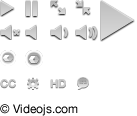
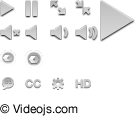
Updated track styles and make subtitles button work.

diff --git a/design/video-js.css b/design/video-js.css
@@ -52,11 +52,12 @@ body.vjs-full-window {
 }
 
 /* Text Track Styles */
-.video-js .vjs-text-track-display {
-  text-align: center; position: absolute; bottom: 4em; left: 1em; right: 1em;
-}
+/* Overall track holder for both captions and subtitles */
+.video-js .vjs-text-track-display { text-align: center; position: absolute; bottom: 4em; left: 1em; right: 1em; }
+/* Individual tracks */
 .video-js .vjs-text-track {
   display: none; color: #fff; font-size: 1.4em; text-align: center; margin-bottom: 0.1em;
+  /* Transparent black background, or fallback to all black (IE6) */
   background: rgb(0, 0, 0); background: rgba(0, 0, 0, 0.50);
 }
 .video-js .vjs-subtitles { color: #fff; }
@@ -165,6 +166,8 @@ so you can upgrade to newer versions easier. You can remove all these styles by 
   background: -o-linear-gradient(top, #333, #666);
   background: -ms-linear-gradient(top, #333, #666);
   background: linear-gradient(top, #333, #666);
+
+  border: 1px solid #000;
 }
 .vjs-default-skin .vjs-volume-level {
   position: absolute; top: 0; left: 0; height: 0.6em;
@@ -434,11 +437,13 @@ div.vjs-loading-spinner .ball7 { opacity: 0.87; position:absolute; left: 0px; to
 div.vjs-loading-spinner .ball8 { opacity: 1.00; position:absolute; left: 6px; top: 6px; width: 13px; height: 13px; background: #fff;
   border-radius: 13px; -webkit-border-radius: 13px; -moz-border-radius: 13px; border: 1px solid #ccc; }
 
-/* Captions Button
+/* Feature Buttons (Captions/Subtitles/etc.)
 -------------------------------------------------------------------------------- */
-.vjs-default-skin .vjs-captions-control { 
-  float: right; margin: 0.2em 1em 0 0; padding: 0; width: 3em; height: 2em; cursor: pointer !important;
+.vjs-default-skin .vjs-feature-button { 
+  float: right; margin: 0.2em 0.5em 0 0; padding: 0; width: 3em; height: 2em; cursor: pointer !important;
+
   border: 1px solid #111; -moz-border-radius: 0.3em; -webkit-border-radius: 0.3em; border-radius: 0.3em; 
+
   background: #4d4d4d;
   background: -moz-linear-gradient(top,  #4d4d4d 0%, #3f3f3f 50%, #333333 50%, #252525 100%);
   background: -webkit-gradient(linear, left top, left bottom, color-stop(0%,#4d4d4d), color-stop(50%,#3f3f3f), color-stop(50%,#333333), color-stop(100%,#252525));
@@ -447,17 +452,16 @@ div.vjs-loading-spinner .ball8 { opacity: 1.00; position:absolute; left: 6px; to
   background: -ms-linear-gradient(top,  #4d4d4d 0%,#3f3f3f 50%,#333333 50%,#252525 100%);
   background: linear-gradient(top,  #4d4d4d 0%,#3f3f3f 50%,#333333 50%,#252525 100%);
 }
-/* Play Icon */
-.vjs-default-skin .vjs-captions-control div { background: url('video-js.png') 0px -75px; width: 16px; height: 16px; margin: 0.2em auto 0; padding: 0; }
+/* Button Icon */
+.vjs-default-skin .vjs-feature-button div { background: url('video-js.png') 0px -75px no-repeat; width: 16px; height: 16px; margin: 0.2em auto 0; padding: 0; }
 
-.vjs-default-skin .vjs-captions-control ul { 
-  display: none; /* Start hidden. Hover will show. */
-}
-.vjs-default-skin .vjs-captions-control:hover ul {
+/* Button Pop-up Menu */
+.vjs-default-skin .vjs-feature-button ul { display: none; /* Start hidden. Hover will show. */ }
+.vjs-default-skin .vjs-feature-button:hover ul {
   display: block;
   opacity: 0.8;
   list-style: none; padding: 0; margin: 0;
-  position: absolute; width: 10em; height: 10em; bottom: 2em; 
+  position: absolute; width: 10em; bottom: 2em; 
   left: -3.5em; /* Width of menu - width of button / 2 */
   background-color: #111;
   border: 2px solid #333;
@@ -465,5 +469,8 @@ div.vjs-loading-spinner .ball8 { opacity: 1.00; position:absolute; left: 6px; to
   -webkit-box-shadow: 0 2px 4px 0 #000; -moz-box-shadow: 0 2px 4px 0 #000; box-shadow: 0 2px 4px 0 #000;
   overflow: auto;
 }
-.vjs-default-skin .vjs-captions-control ul li { list-style: none; margin: 0 0 2px 0; padding: 0; line-height: 1.5em; font-size: 1.4em; font-family: "Helvetica Neue", Helvetica, Arial, sans-serif; background-color: #333; }
-.vjs-default-skin .vjs-captions-control ul li:hover { background-color: #ccc; color: #333; }
+.vjs-default-skin .vjs-feature-button ul li { list-style: none; margin: 0 0 2px 0; padding: 0; line-height: 1.5em; font-size: 1.4em; font-family: "Helvetica Neue", Helvetica, Arial, sans-serif; background-color: #333; }
+.vjs-default-skin .vjs-feature-button ul li:hover { background-color: #ccc; color: #333; }
+
+/* Subtitles Button */
+.vjs-default-skin .vjs-captions-button div { background-position: -25px -75px; }

diff --git a/src/tracks.js b/src/tracks.js
@@ -465,8 +465,6 @@ _V_.TextTrackDisplay = _V_.Component.extend({
 ================================================================================ */
 _V_.TextTrackButton = _V_.Button.extend({
 
-  buttonText: "Captions",
-
   init: function(player, options){
     this._super(player, options);
 
@@ -480,7 +478,7 @@ _V_.TextTrackButton = _V_.Button.extend({
     _V_.addEvent(off, "click", this.proxy(this.turnOff));
 
     this.each(this.player.textTracks, function(track){
-      if (track.kind === "captions") {
+      if (track.kind === this.kind) {
         count++;
 
         li = _V_.createElement("li", { innerHTML: track.label });
@@ -517,10 +515,6 @@ _V_.TextTrackButton = _V_.Button.extend({
 
   },
 
-  buildCSSClass: function(){
-    return "vjs-captions-control " + this._super();
-  },
-
   turnOn: function(lang, label){
     var tracks = this.player.textTracks,
         i=0, j=tracks.length,
@@ -528,7 +522,7 @@ _V_.TextTrackButton = _V_.Button.extend({
 
     for (;i<j;i++) {
       track = tracks[i];
-      if (track.kind == "captions") {
+      if (track.kind == this.kind) {
         if (track.language == lang && track.label == label) {
           track.show();
         } else if (track.mode > 0) {
@@ -545,17 +539,34 @@ _V_.TextTrackButton = _V_.Button.extend({
 
     for (;i<j;i++) {
       track = tracks[i];
-      if (track.kind == "captions" && track.mode > 0) {
+      if (track.kind == this.kind && track.mode > 0) {
         track.disable();
       }
     }
+  },
+
+  buildCSSClass: function(){
+    return this.className + " vjs-feature-button " + this._super();
   }
 
 });
 
-_V_.CaptionsButton = _V_.Button.extend({
+_V_.CaptionsButton = _V_.TextTrackButton.extend({
   kind: "captions",
-  buttonText: "Captions"
+  buttonText: "Captions",
+  className: "vjs-captions-button"
+});
+
+_V_.SubtitlesButton = _V_.TextTrackButton.extend({
+  kind: "subtitles",
+  buttonText: "Subtitles",
+  className: "vjs-subtitles-button"
+});
+
+// Add Buttons to controlBar
+_V_.merge(_V_.ControlBar.prototype.options.components, {
+  "subtitlesButton": {},
+  "captionsButton": {}
 });
 
 // _V_.Cue = _V_.Component.extend({

diff --git a/src/lib.js b/src/lib.js
@@ -200,24 +200,20 @@ _V_.extend({
      It also stores a unique id on the function so it can be easily removed from events
   ================================================================================ */
   proxy: function(context, fn, uid) {
+    // Make sure the function has a unique ID
+    if (!fn.guid) { fn.guid = _V_.guid++; }
+
     // Create the new function that changes the context
     var ret = function() {
       return fn.apply(context, arguments);
-    },
-
-    // Make sure the function has a unique ID
-    guid = fn.guid || _V_.guid++;
+    }
 
     // Allow for the ability to individualize this function
-    // Needed in the case where multiple items might share the same prototype function
+    // Needed in the case where multiple objects might share the same prototype
     // IF both items add an event listener with the same function, then you try to remove just one
     // it will remove both because they both have the same guid.
-    // when using this, you need to use the proxy method both times.
-    if (uid) { guid = uid + "_" + guid }
-
-    // Give the new function the same ID
-    // (so that they are equivalent and can be easily removed)
-    ret.guid = guid;
+    // when using this, you need to use the proxy method when you remove the listener as well.
+    ret.guid = (uid) ? uid + "_" + fn.guid : fn.guid;
 
     return ret;
   },

diff --git a/src/component.js b/src/component.js
@@ -157,7 +157,7 @@ _V_.Component = _V_.Class.extend({
   /* Events
   ================================================================================ */
   addEvent: function(type, fn, uid){
-    return _V_.addEvent(this.el, type, _V_.proxy(this, fn, uid));
+    return _V_.addEvent(this.el, type, _V_.proxy(this, fn));
   },
   removeEvent: function(type, fn){
     return _V_.removeEvent(this.el, type, fn);
@@ -211,6 +211,6 @@ _V_.Component = _V_.Class.extend({
   extend: function(obj){ _V_.merge(this, obj) },
 
   // More easily attach 'this' to functions
-  proxy: function(fn){  return _V_.proxy(this, fn); }
+  proxy: function(fn, uid){  return _V_.proxy(this, fn, uid); }
 
 });

diff --git a/src/controls.js b/src/controls.js
@@ -234,8 +234,7 @@ _V_.ControlBar = _V_.Component.extend({
       "remainingTimeDisplay": {},
       "progressControl": {},
       "volumeControl": {},
-      "muteToggle": {},
-      "captionsButton": {}
+      "muteToggle": {}
     }
   },
 
